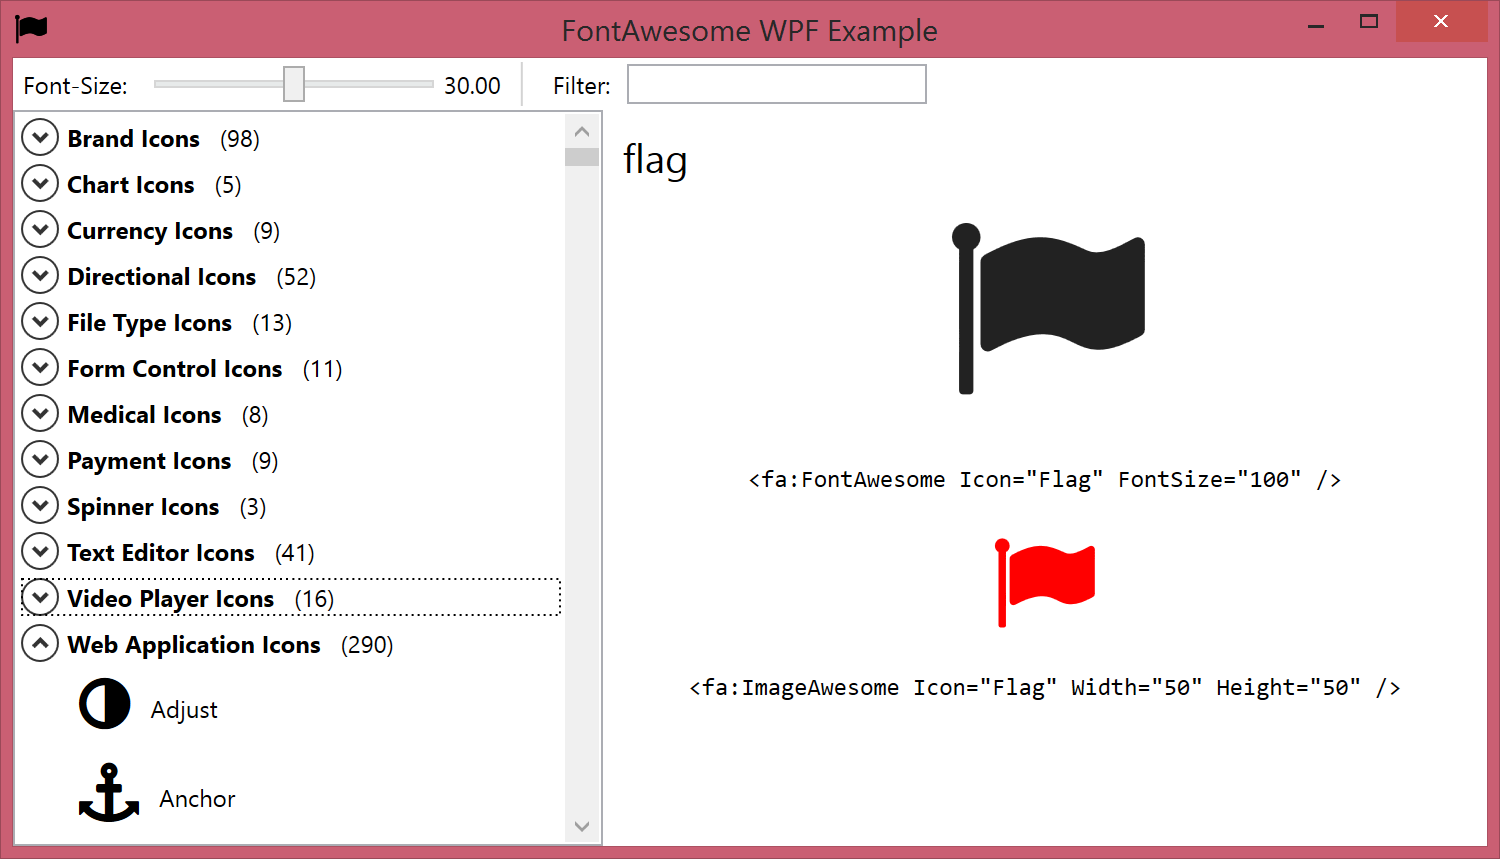
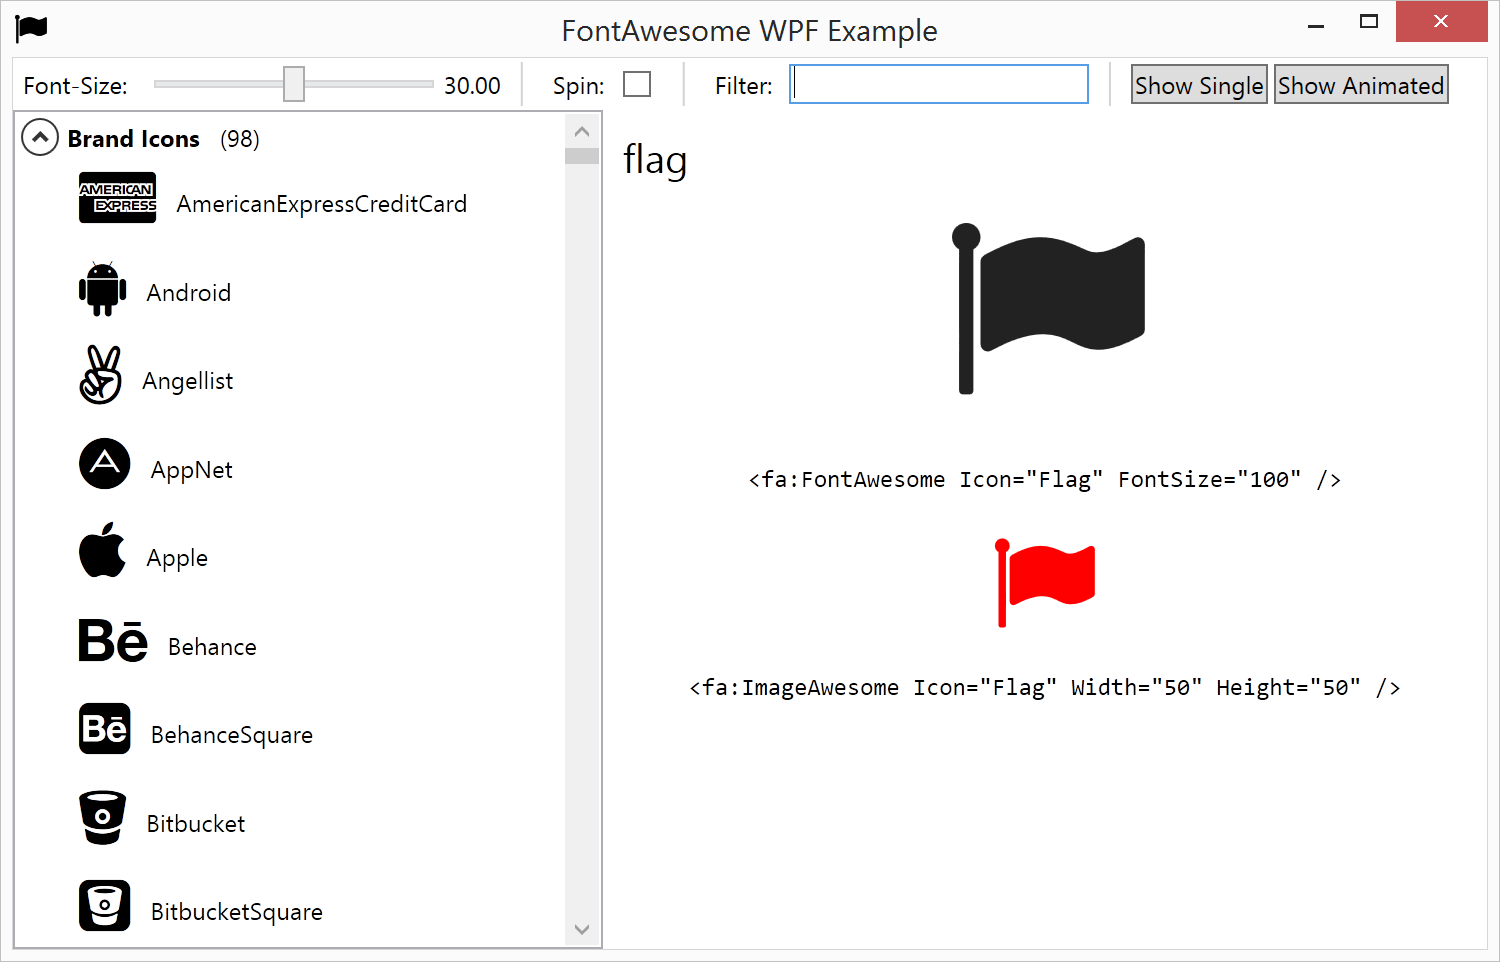
add: Spin example, fix: typo

diff --git a/README.md b/README.md
@@ -3,7 +3,7 @@
 WPF controls for the iconic font and CSS toolkit Font Awesome.
 
 Font Awesome: http://fortawesome.github.io/Font-Awesome/
-- Current Version: v4.2
+- Current Version: v4.2.0
 
 ## Getting started
 
@@ -23,7 +23,7 @@ Or search & install the package via the NuGet Package Manager.
 <Window x:Class="Example.FontAwesome.WPF.Single"
         xmlns="http://schemas.microsoft.com/winfx/2006/xaml/presentation"
         xmlns:x="http://schemas.microsoft.com/winfx/2006/xaml"
-        xmlns:fa="clr-namespace:FontAwesome.WPF;assembly=FontAwesome.WPF"
+        xmlns:fa="http://schemas.fontawesome.io/icons/"
         Title="Single" Height="300" Width="300">
     <Grid  Margin="20">
         <fa:ImageAwesome Icon="Flag" VerticalAlignment="Center" HorizontalAlignment="Center" />
@@ -56,6 +56,14 @@ Icon = ImageAwesome.CreateImageSource(FontAwesomeIcon.Flag, Brushes.Black);
 ![alt text](/doc/screen-example.png "Example")
 
 Can be found in /example/ folder.
+
+## Spinning Icons
+```
+<fa:ImageAwesome Icon="Spinner" Spin="True" />
+```
+Further examples: http://fontawesome.io/examples/#spinning
+
+Please note: It is advised to use the ImageAwesome Control for spinning icon's due to a line height side-effect with glyph fonts. (The rotation does not occur in the middle of the icon.)
 
 ## Icons
 
